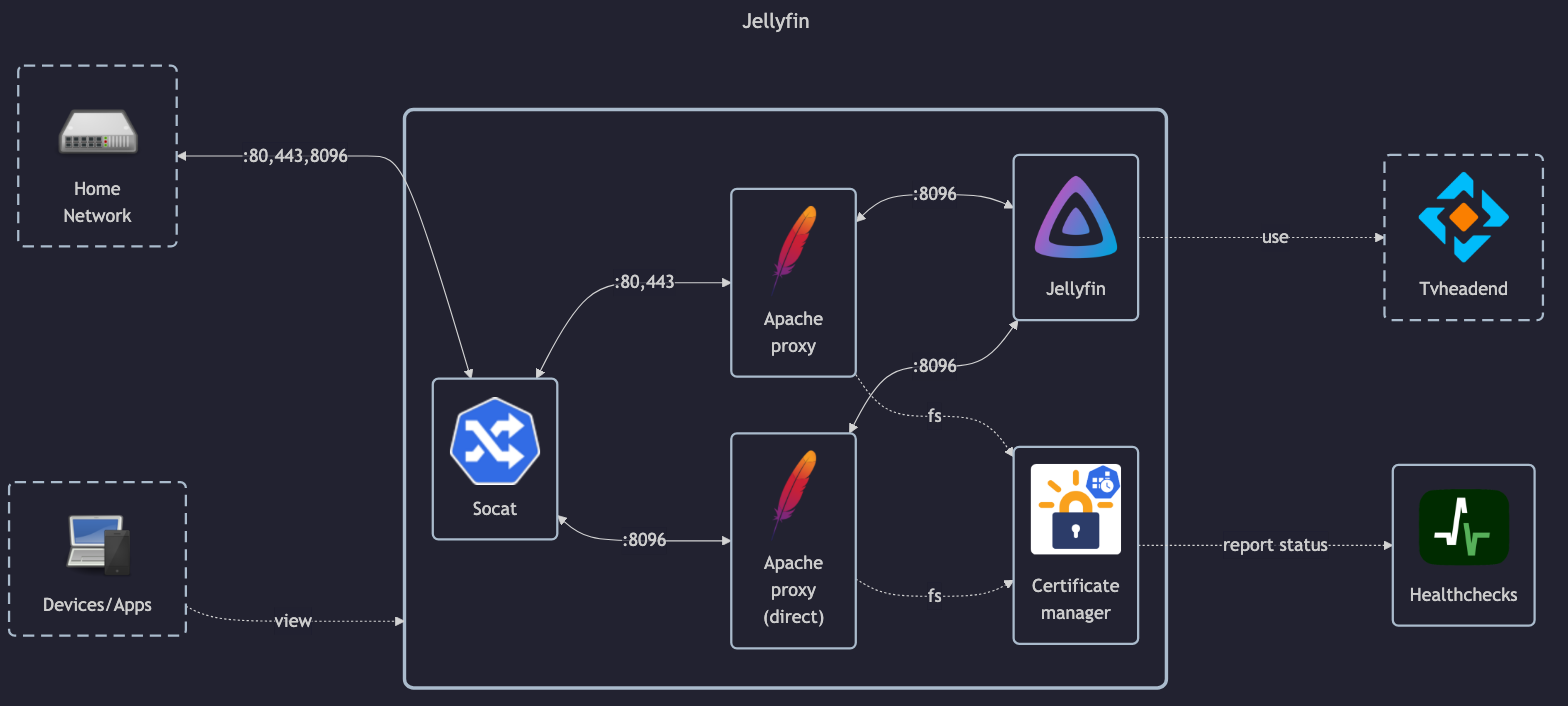
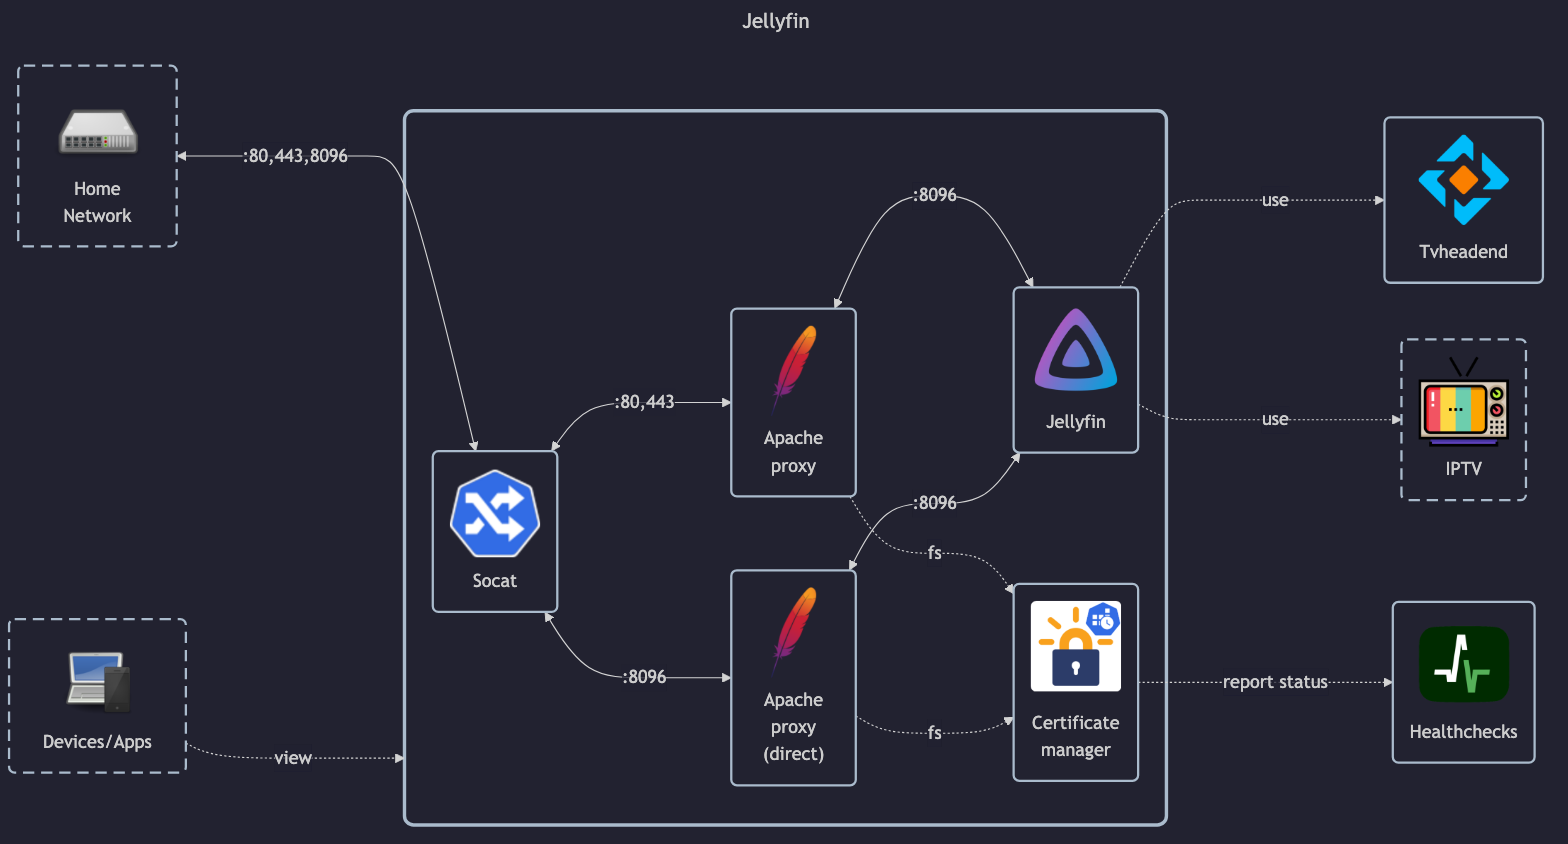
docs: update jellyfin diagram

diff --git a/icons/README.md b/icons/README.md
@@ -26,6 +26,7 @@ The Icons are obtained from following locations:
     - RenovateBot: <https://docs.renovatebot.com>
     - Smtp4dev: <https://github.com/rnwood/smtp4dev>
     - SSL Certificate: <https://www.flaticon.com/free-icon/ssl-certificate_6472048>
+    - TV (old): <https://www.flaticon.com/free-icon/television_550486>
     - UPC: <https://www.upc.sk>
     - Webcamera: <https://www.flaticon.com/free-icon/webcam_214713>
     - WWW: <https://www.flaticon.com/free-icon/www_4357944>
